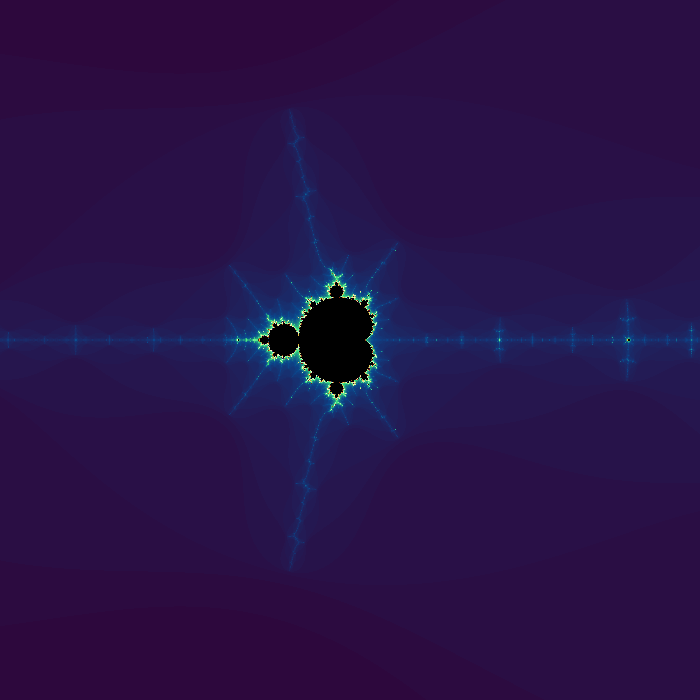
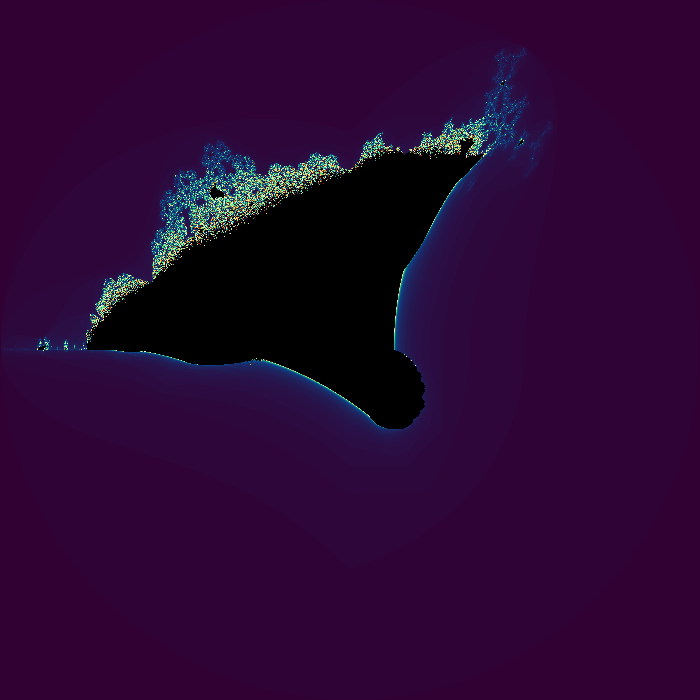
burning ship

Changed region(s): [[0.0, 0.09, 1.0, 0.81]]

diff --git a/main.py b/main.py
@@ -29,38 +29,46 @@ def gradient(colors, steps):
         list.append((R, G, B))
     return(list)
 
-def iterate(z, c, iterate):
+def iterman(z, c, iterate):
     for i in range(iterate):
         z = z**2 + c
         if(abs(z) > 2):
             return(i)
     return(-1)
 
-def gensetman(res, iter, center, zoom, cols):
-    if(center.imag == 0):
-        return(gensetmanaxis(res, iter, center.real, zoom, cols))
+def itership(z, c, iterate):
+    for i in range(iterate):
+        z = z**2 + c
+        z = complex(abs(z.real), abs(z.imag))
+        if(abs(z) > 2):
+            return(i)
+    return(-1)
+
+def gensetmain(res, iter, center, zoom, cols, func):
+    if(center.imag == 0 and fractal == "Mandelbrot Set"):
+        return(gensetmandelbrotaxis(res, iter, center.real, zoom, cols))
     canvas = Image.new(mode="RGB", size=(res, res), color="WHITE")
     pixels = canvas.load()
     for x in range(res):
         for y in range(res):
             halfres = res/2-0.5
-            num = complex((x-halfres)/halfres*(2/zoom)+center.real, (y-halfres)/halfres*(-2/zoom)+center.imag)
-            numS = iterate(0, num, iter)
+            num = complex((x-halfres)/halfres*(2/zoom)+center.real, (y-halfres)/halfres*(2/zoom)+center.imag)
+            numS = func(0, num, iter)
             if(numS < 0):
                 pixels[x,y] = (0, 0, 0)
             else:
                 pixels[x,y] = cols[numS%len(cols)]
     return(canvas)
 
-def gensetmanaxis(res, iter, center, zoom, cols):
+def gensetmandelbrotaxis(res, iter, center, zoom, cols):
     canvas = Image.new(mode="RGB", size=(res, res), color="WHITE")
     pixels = canvas.load()
     for x in range(res):
         for y in range(res):
             if(y <= -(-res//2)-1):
                 halfres = res/2-0.5
-                num = complex((x-halfres)/halfres*(2/zoom)+center, (y-halfres)/halfres*(-2/zoom))
-                numS = iterate(0, num, iter)
+                num = complex((x-halfres)/halfres*(2/zoom)+center, (y-halfres)/halfres*(2/zoom))
+                numS = iterman(0, num, iter)
                 if(numS < 0):
                     pixels[x,y] = (0, 0, 0)
                 else:
@@ -69,7 +77,7 @@ def gensetmanaxis(res, iter, center, zoom, cols):
                 pixels[x,y] = pixels[x,-1-y]
     return(canvas)
 
-def gensetmanjul(res, iter, center, zoom, cols):
+def gensetjulia(res, iter, center, zoom, cols, func):
     if(zoom != 1):
         center2 = center
     else:
@@ -79,32 +87,38 @@ def gensetmanjul(res, iter, center, zoom, cols):
     for x in range(res):
         for y in range(res):
             halfres = res/2-0.5
-            num = complex((x-halfres)/halfres*(2/zoom)+center2.real, (y-halfres)/halfres*(-2/zoom)+center2.imag)
-            numS = iterate(num, center, iter)
+            num = complex((x-halfres)/halfres*(2/zoom)+center2.real, (y-halfres)/halfres*(2/zoom)+center2.imag)
+            numS = func(num, center, iter)
             if(numS < 0):
                 pixels[x,y] = (0, 0, 0)
             else:
                 pixels[x,y] = cols[numS%len(cols)]
     return(canvas)
 
-def reloadmain():
+def getfunction(fractal):
     if(fractal == "Mandelbrot Set"):
-        if(focusjulia == False):
-            gensetman(700, iteration, center, zoom, scheme).save("set.png")
-            display.switch("set.png")
-        else:
-            gensetman(70, iteration, center, zoom, scheme).save("set2.png")
-            display2.switch("set2.png")
-            gensetman(700, iteration, center, zoom, scheme).save("set3.png")
+        return(iterman)
+    elif(fractal == "Burning Ship"):
+        return(itership)
+
+def reloadmain():
+    func = getfunction(fractal)
+    if(focusjulia == False):
+        gensetmain(700, iteration, center, zoom, scheme, func).save("set.png")
+        display.switch("set.png")
+    else:
+        gensetmain(70, iteration, center, zoom, scheme, func).save("set2.png")
+        display2.switch("set2.png")
+        gensetmain(700, iteration, center, zoom, scheme, func).save("set3.png")
 
 def reloadjulia():
-    if(fractal == "Mandelbrot Set"):
-        if(focusjulia == False):
-            gensetmanjul(70, iteration, center, juliazoom, scheme).save("set2.png")
-            display2.switch("set2.png")
-        else:
-            gensetmanjul(700, iteration, center, juliazoom, scheme).save("set.png")
-            display.switch("set.png")
+    func = getfunction(fractal)
+    if(focusjulia == False):
+        gensetjulia(70, iteration, center, juliazoom, scheme, func).save("set2.png")
+        display2.switch("set2.png")
+    else:
+        gensetjulia(700, iteration, center, juliazoom, scheme, func).save("set.png")
+        display.switch("set.png")
 
 class setdisplay(pygame.sprite.Sprite):
     def __init__(self, image, x, y):
@@ -146,7 +160,7 @@ class user(pygame.sprite.Sprite):
     def get_parameters(self, res, center, zoom, pos):
         halfres = res/2-0.5
         mx, my = pos
-        newcenter = complex((mx-halfres)/halfres*(2/zoom)+center.real, (my-halfres)/halfres*(-2/zoom)+center.imag)
+        newcenter = complex((mx-halfres)/halfres*(2/zoom)+center.real, (my-halfres)/halfres*(2/zoom)+center.imag)
         if(axismode):
             newcenter = complex(newcenter.real, 0)
         newzoom = zoom * res/self.size
@@ -331,7 +345,17 @@ class buttonchangescheme(button):
     def function(self):
         global scheme
         scheme = schemes[(schemes.index(scheme)+self.amount)%len(schemes)]
-        schemedisplay.changetext("Palette: "+names[schemes.index(scheme)])
+        schemedisplay.changetext("Palette: "+schemenames[schemes.index(scheme)])
+
+class buttonchangefractal(button):
+    def __init__(self, x, y, width, height, text, amount):
+        super(buttonchangefractal, self).__init__(x, y, width, height, text)
+        self.amount = amount
+
+    def function(self):
+        global fractal
+        fractal = fractals[(fractals.index(fractal)+self.amount)%len(fractals)]
+        fractalnamedisplay.changetext(fractal)
 
 class buttontoggleaxismode(button):
     def __init__(self, x, y, width, height, text):
@@ -359,12 +383,10 @@ schemes = [gradient([(50, 1, 51), (10, 72, 142), (60, 232, 126), (246, 255, 214)
 gradient([(55, 5, 50), (120, 55, 72), (172, 115, 100), (215, 182, 146), (252, 252, 212)], 80) + gradient([(252, 252, 212), (215, 182, 146), (172, 115, 100), (120, 55, 72), (55, 5, 50)], 80),
 gradient([(48, 5, 56), (55, 48, 104), (45, 89, 148), (16, 131, 186), (0, 174, 215), (52, 196, 221), (93, 217, 224), (132, 238, 227), (165, 243, 223), (193, 247, 222), (217, 251, 227), (237, 255, 235)], 80) + gradient([(237, 255, 235), (225, 248, 208), (220, 240, 179), (220, 229, 147), (226, 217, 115), (228, 188, 90), (228, 159, 74), (224, 129, 66), (195, 83, 71), (153, 45, 74), (102, 18, 70), (48, 5, 56)], 80),
 gradient([(45, 7, 112), (0, 63, 153), (0, 102, 172), (0, 136, 176), (0, 168, 174), (63, 186, 172), (105, 202, 169), (145, 218, 165), (176, 226, 173), (203, 233, 186), (227, 241, 201), (246, 250, 220)], 80) + gradient([(246, 250, 220), (237, 224, 183), (233, 195, 151), (230, 165, 129), (224, 133, 117), (213, 108, 112), (198, 83, 112), (179, 60, 115), (154, 38, 114), (125, 19, 114), (91, 7, 114), (45, 7, 112)], 80),
-gradient([(252, 189, 189), (252, 252, 189)], 40) + gradient([(252, 252, 189), (189, 252, 207)], 40) + gradient([(189, 252, 207), (189, 240, 252)], 40) + gradient([(189, 240, 252), (189, 190, 252)], 40) + gradient([(189, 190, 252), (252, 189, 240)], 40) + gradient([(252, 189, 240), (252, 189, 189)], 40),
-gradient([(61, 4, 23), (252, 189, 189)], 80) + gradient([(252, 189, 189), (61, 40, 4)], 80) + gradient([(61, 40, 4), (252, 252, 189)], 80) + gradient([(252, 252, 189), (4, 61, 43)], 80) + gradient([(4, 61, 43), (189, 252, 207)], 80) + gradient([(189, 252, 207), (4, 30, 61)], 80) + gradient([(4, 30, 61), (189, 240, 252)], 80) + gradient([(189, 240, 252), (24, 4, 61)], 80) + gradient([(24, 4, 61), (189, 190, 252)], 80) + gradient([(189, 190, 252), (56, 4, 61)], 80) + gradient([(56, 4, 61), (252, 189, 240)], 80) + gradient([(252, 189, 240), (61, 4, 23)], 80),
-gradient([(247, 87, 129), (247, 177, 101)], 40) + gradient([(247, 177, 101), (242, 250, 130)], 40) + gradient([(242, 250, 130), (101, 247, 106)], 40) + gradient([(101, 247, 106), (101, 247, 242)], 40) + gradient([(101, 247, 242), (87, 98, 247)], 40) + gradient([(87, 98, 247), (233, 109, 247)], 40) + gradient([(233, 109, 247), (247, 87, 129)], 40),
+gradient([(247, 87, 129), (247, 177, 101)], 20) + gradient([(247, 177, 101), (242, 250, 130)], 20) + gradient([(242, 250, 130), (101, 247, 106)], 20) + gradient([(101, 247, 106), (101, 247, 242)], 20) + gradient([(101, 247, 242), (87, 98, 247)], 20) + gradient([(87, 98, 247), (233, 109, 247)], 20) + gradient([(233, 109, 247), (247, 87, 129)], 20),
 gradient([(102, 7, 75), (247, 87, 129)], 80) + gradient([(247, 87, 129), (102, 7, 7)], 80) + gradient([(102, 7, 7), (247, 177, 101)], 80) + gradient([(247, 177, 101), (102, 78, 7)], 80) + gradient([(102, 78, 7), (242, 250, 130)], 80) + gradient([(242, 250, 130), (43, 102, 7)], 80) + gradient([(43, 102, 7), (101, 247, 106)], 80) + gradient([(101, 247, 106), (50, 168, 117)], 80) + gradient([(50, 168, 117), (101, 247, 242)], 80) + gradient([(101, 247, 242), (7, 53, 102)], 80) + gradient([(7, 53, 102), (87, 98, 247)], 80) + gradient([(87, 98, 247), (53, 7, 102)], 80) + gradient([(53, 7, 102), (233, 109, 247)], 80) + gradient([(233, 109, 247), (102, 7, 75)], 80)]
 scheme = schemes[0]
-names = ["Standard", "Rose Gold", "Ice & Fire", "Plant Life", "Rainbow 1A", "Rainbow 1B", "Rainbow 2A", "Rainbow 2B"]
+schemenames = ["Standard", "Rose Gold", "Ice & Fire", "Plant Life", "Rainbow 1", "Rainbow 2"]
 center = complex(0, 0)
 zoom = 1
 iteration = 300
@@ -391,7 +413,10 @@ buttons.add(buttonchangeiter(925, 210, 75, 70, "+10", 10))
 schemedisplay = textdisplay(750, 280, 200, 70, "Palette: Standard")
 buttons.add(buttonchangescheme(700, 280, 75, 70, "Prev", -1))
 buttons.add(buttonchangescheme(925, 280, 75, 70, "Next", 1))
-buttons.add(buttontoggleaxismode(700, 350, 300, 70, "Enable Axis Mode"))
+fractalnamedisplay = textdisplay(750, 350, 200, 70, "Mandelbrot Set")
+buttons.add(buttonchangefractal(700, 350, 75, 70, "Prev", -1))
+buttons.add(buttonchangefractal(925, 350, 75, 70, "Next", 1))
+buttons.add(buttontoggleaxismode(700, 420, 300, 70, "Enable Axis Mode"))
 
 running = True
 while running:
@@ -426,6 +451,8 @@ while running:
     iterdisplay.draw()
     screen.blit(schemedisplay.image, schemedisplay.rect.topleft)
     schemedisplay.draw()
+    screen.blit(fractalnamedisplay.image, fractalnamedisplay.rect.topleft)
+    fractalnamedisplay.draw()
     buttons.draw(screen)
     for button in buttons:
         if(mousepos != None):
